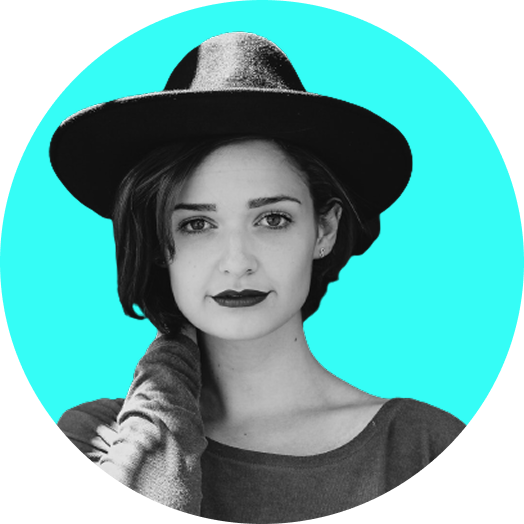
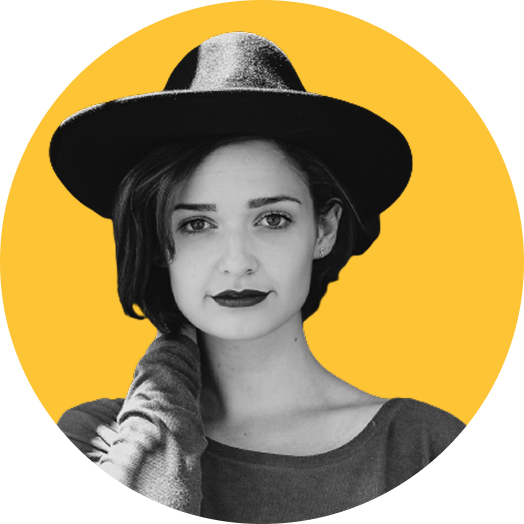
add: about page complete change: delete useless bold on header

diff --git a/portfolio/src/components/About.jsx b/portfolio/src/components/About.jsx
@@ -1,5 +1,31 @@
 import React from "react";
 
 export default function About() {
-  return <></>;
+  return (
+    <main className="flex flex-col md:flex-row items-center justify-between px-8 md:px-16 mt-24 max-w-6xl mx-auto gap-12">
+      <div className="flex-1">
+        <h1 className="text-5xl font-bold text-gray-900 mb-6 font-playfair">
+          About me
+        </h1>
+        <p className="text-gray-500 mb-8 leading-relaxed text-xl font-nunito">
+          Nisl arcu, scelerisque neque ut. Tincidunt amet, tempor duis tortor
+          neque auctor dis ipsum. Pretium cras amet odio amet eleifend id sed
+          cras sed. Aliquet risus posuere aliquet imperdiet sit.
+        </p>
+        <button className="bg-primary text-gray-900 px-6 py-2 rounded-lg font-poppins font-medium shadow-md hover:shadow-lg transition-shadow">
+          Resume
+        </button>
+      </div>
+
+      <div className="flex-1 flex justify-center">
+        <div className="relative w-80 h-80 md:w-96 md:h-96 lg:w-[450px] lg:h-[450px] rounded-full bg-primary overflow-hidden flex items-end justify-center shadow-lg">
+          <img
+            src="/bg-about.png"
+            alt="Madelyn Torff"
+            className="object-cover"
+          />
+        </div>
+      </div>
+    </main>
+  );
 }

diff --git a/portfolio/src/components/Header.jsx b/portfolio/src/components/Header.jsx
@@ -1,15 +1,24 @@
 import React from "react";
-import { Link } from "react-router-dom";
+import { NavLink } from "react-router-dom";
 
 export default function Header() {
   return (
     <header className="relative z-50 flex w-full h-20 overflow-hidden">
       <div className="flex-1 flex items-center px-8 md:px-16">
-        <span className="text-2xl font-bold">Madelyn Torff</span>
+        <span className="text-2xl ">Madelyn Torff</span>
       </div>
 
       <nav className="flex-1 flex items-center justify-end px-8 md:px-32 space-x-16 text-lg">
-        <Link to="/about">About</Link>
+        <NavLink
+          to="/about"
+          className={({ isActive }) =>
+            `transition-all hover:text-cyan-400 ${
+              isActive ? "border-b-2 border-gray-900" : ""
+            }`
+          }
+        >
+          About
+        </NavLink>
         <a href="/#projects">Projects</a>
         <a href="/#contacts">Contacts</a>
       </nav>